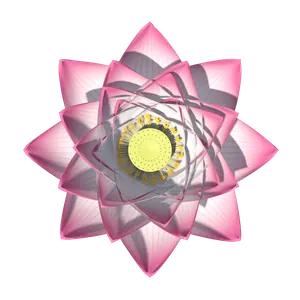
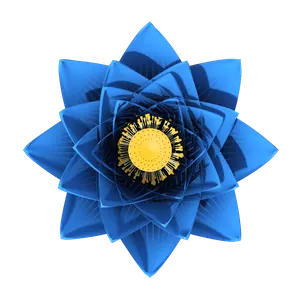
Lotus vira o microfone: flor preta, azul e dourada que fala
- Botão flutuante do canto inferior direito: o ícone de microfone foi
  trocado por uma flor de lótus 3D (preto por dentro, azul em volta,
  dourado no meio) que respira e brilha azul no mãos livres.
- Cabeçalho: sai a florzinha; ficam logo, lupa e três pontinhos
  (o carrinho continua aparecendo só quando há itens).
- Caixa da Lotus: removidos os dois círculos de voz; a própria flor
  balança, pulsa e sobe no ritmo da voz (volume de quem fala ao ouvir,
  "sílabas" quando a Lotus responde).
- Cor padrão da flor da Lotus também passa a ser preto, azul e dourado.

Claude-Session: https://claude.ai/code/session_01XJ8bKKccaeKyaJvzJKSeeL

diff --git a/src/components/LotusFlower.js b/src/components/LotusFlower.js
@@ -1,6 +1,6 @@
 import React, { useEffect, useMemo, useRef, useState } from 'react';
 import { View, Image, StyleSheet, Animated, Easing, Pressable } from 'react-native';
-import FRAMES, { MINI } from './lotus/frames';
+import FRAMES, { FAB } from './lotus/frames';
 
 // Flor de lótus da Lotus em 3D (quadros em assets/lotus, gerados por tools/lotus3d).
 
@@ -8,7 +8,8 @@ const SIZE = 206; // a flor é vista de frente (de cima), formando um círculo n
 
 // Cores da flor conforme o assunto da conversa.
 export const MOODS = {
-  padrao: { back: '#E0709F', mid: '#F29BBE', front: '#FFC9DC', center: '#FFF0F5', shineBack: 'rgba(255,190,215,0.6)', shineMid: 'rgba(255,225,238,0.75)', glow: 'rgba(253,224,150,0.22)', seed: '#FDE7A8', icon: '#A8790A' },
+  // Padrão do Realys: preto por dentro, azul em volta e dourado no meio.
+  padrao: { back: '#0E1A3A', mid: '#2F86FF', front: '#7DB8FF', center: '#E2B649', shineBack: 'rgba(47,134,255,0.5)', shineMid: 'rgba(125,184,255,0.7)', glow: 'rgba(226,182,73,0.22)', seed: '#E2B649', icon: '#E2B649' },
   agro: { back: '#2E9E62', mid: '#4CBF7E', front: '#A7E8BF', center: '#E6F9EE', shineBack: 'rgba(190,240,205,0.55)', shineMid: 'rgba(225,250,232,0.7)', glow: 'rgba(110,231,160,0.24)', seed: '#FDE7A8', icon: '#1E7A48' },
   sos: { back: '#C62828', mid: '#E53935', front: '#FF8A80', center: '#FFE1DE', shineBack: 'rgba(255,170,160,0.5)', shineMid: 'rgba(255,215,210,0.7)', glow: 'rgba(248,113,113,0.30)', seed: '#FFF1C1', icon: '#C62828' },
   shop: { back: '#B8860B', mid: '#D4A017', front: '#F5D272', center: '#FFF5D6', shineBack: 'rgba(255,230,160,0.55)', shineMid: 'rgba(255,245,210,0.75)', glow: 'rgba(253,210,100,0.30)', seed: '#FFFFFF', icon: '#A8790A' },
@@ -52,8 +53,8 @@ function Pollen({ x, delay, active }) {
 
 // Flor de lótus 3D realista (quadros renderizados em 3D, com luz, sombra e translucidez).
 // - Ao abrir a caixa, desabrocha a partir do botão fechado.
-// - Ativa (ouvindo, pensando, falando): fica aberta e "respira" devagar; falando, respira mais
-//   rápido, o brilho acompanha a voz e sobe pólen dourado.
+// - Ativa (ouvindo, pensando, falando): fica aberta e "respira"; no lugar dos antigos círculos de
+//   voz, a própria flor balança e pulsa com a voz (de quem fala ou da Lotus) e sobe pólen dourado.
 // - Em repouso: fecha de novo até ficar entreaberta.
 const LAST = 7; // último quadro do desabrochar
 const REST = 3; // quadro de repouso (entreaberta)
@@ -96,34 +97,72 @@ export default function LotusFlower({ phase, level, onPress, visible = true, moo
     return () => clearInterval(id);
   }, [visible]);
 
-  const listening = phase === 'listening';
   const speaking = phase === 'speaking';
-  const glowColor = listening ? 'rgba(96,165,250,0.32)' : (MOODS[mood] || MOODS.padrao).glow;
+  // A flor "fala": em vez dos círculos de voz, a própria flor balança no ritmo da voz.
+  // Ouvindo, acompanha o volume de quem fala (level); falando, cada sílaba da Lotus dá um tremor.
   const breath = useRef(new Animated.Value(0)).current;
+  const talk = useRef(new Animated.Value(0)).current; // força da "sílaba" da Lotus (0 a 1)
+  const tilt = useRef(new Animated.Value(0)).current; // lado do balanço (-1 a 1)
   useEffect(() => {
     const b = Animated.loop(
       Animated.sequence([
-        Animated.timing(breath, { toValue: 1, duration: active ? 700 : 2000, easing: Easing.inOut(Easing.sin), useNativeDriver: true }),
-        Animated.timing(breath, { toValue: 0, duration: active ? 700 : 2000, easing: Easing.inOut(Easing.sin), useNativeDriver: true }),
+        Animated.timing(breath, { toValue: 1, duration: active ? 900 : 2000, easing: Easing.inOut(Easing.sin), useNativeDriver: true }),
+        Animated.timing(breath, { toValue: 0, duration: active ? 900 : 2000, easing: Easing.inOut(Easing.sin), useNativeDriver: true }),
       ]),
     );
     b.start();
     return () => b.stop();
   }, [active]);
-  const glowScale = Animated.add(
-    breath.interpolate({ inputRange: [0, 1], outputRange: [0.9, 1.06] }),
-    level.interpolate({ inputRange: [0, 1], outputRange: [0, 0.3] }),
+  useEffect(() => {
+    if (!visible || !active) {
+      Animated.parallel([
+        Animated.timing(talk, { toValue: 0, duration: 200, useNativeDriver: true }),
+        Animated.timing(tilt, { toValue: 0, duration: 300, useNativeDriver: true }),
+      ]).start();
+      return;
+    }
+    if (!speaking) Animated.timing(talk, { toValue: 0, duration: 200, useNativeDriver: true }).start();
+    let alive = true;
+    let id;
+    const beat = () => {
+      if (!alive) return;
+      const dur = speaking ? 90 + Math.random() * 90 : 260 + Math.random() * 200;
+      const anims = [Animated.timing(tilt, { toValue: Math.random() * 2 - 1, duration: dur, easing: Easing.inOut(Easing.quad), useNativeDriver: true })];
+      if (speaking) {
+        // sílaba: sobe rápido e solta; de vez em quando uma pausa curta, como entre palavras
+        const amp = Math.random() < 0.15 ? 0.05 : 0.35 + Math.random() * 0.65;
+        anims.push(
+          Animated.sequence([
+            Animated.timing(talk, { toValue: amp, duration: dur * 0.4, easing: Easing.out(Easing.quad), useNativeDriver: true }),
+            Animated.timing(talk, { toValue: amp * 0.25, duration: dur * 0.6, easing: Easing.in(Easing.quad), useNativeDriver: true }),
+          ]),
+        );
+      }
+      Animated.parallel(anims).start();
+      id = setTimeout(beat, dur);
+    };
+    beat();
+    return () => {
+      alive = false;
+      clearTimeout(id);
+    };
+  }, [visible, active, speaking]);
+  const voice = Animated.add(level, talk); // 0 (quieta) a ~1 (voz forte)
+  const flowerScale = Animated.add(
+    breath.interpolate({ inputRange: [0, 1], outputRange: [1, active ? 1.025 : 1.012] }),
+    voice.interpolate({ inputRange: [0, 2], outputRange: [0, 0.2], extrapolate: 'clamp' }),
   );
-  const flowerScale = level.interpolate({ inputRange: [0, 1], outputRange: [1, 1.05] });
+  // Balanço: um pouquinho sempre que está ativa e bem mais forte com a voz.
+  const sway = Animated.multiply(tilt, voice.interpolate({ inputRange: [0, 1], outputRange: [0.15, 1], extrapolate: 'clamp' }));
+  const rotate = sway.interpolate({ inputRange: [-1, 1], outputRange: ['-7deg', '7deg'], extrapolate: 'clamp' });
+  const lift = voice.interpolate({ inputRange: [0, 1], outputRange: [0, -5], extrapolate: 'clamp' });
   const pollen = useMemo(() => [-22, -10, 0, 9, 20, -15, 14].map((x, i) => ({ x, delay: i * 230 })), []);
 
   // Todos os quadros ficam empilhados e só o atual aparece: troca sem piscar.
   const all = [...set.bloom.map((src, i) => ['bloom', i, src]), ...set.idle.map((src, i) => ['idle', i, src])];
   return (
     <Pressable onPress={onPress} accessibilityLabel="Falar com a Lotus" style={styles.wrap}>
-      <Animated.View pointerEvents="none" style={[styles.glow, { backgroundColor: glowColor, transform: [{ scale: glowScale }] }]} />
-      <Animated.View pointerEvents="none" style={[styles.glowSoft, { transform: [{ scale: glowScale }] }]} />
-      <Animated.View style={[styles.flower, { transform: [{ scale: flowerScale }] }]}>
+      <Animated.View style={[styles.flower, { transform: [{ translateY: lift }, { rotate }, { scale: flowerScale }] }]}>
         {all.map(([k, i, src]) => (
           <Image
             key={mood + k + i}
@@ -187,33 +226,40 @@ export function FlyingPetal({ trigger, from, to, color = '#F29BBE' }) {
   );
 }
 
-// Florzinha de lótus 3D do cabeçalho: botão fechado em repouso, cresce com brilho azul
-// quando o mãos livres está ouvindo e desabrocha quando a Lotus abre.
-export function MiniLotus({ hearing, open }) {
-  const o = useRef(new Animated.Value(open ? 1 : 0)).current;
+// Botão flutuante da Lotus (canto inferior direito): uma flor de lótus preta, azul e dourada
+// que funciona como microfone. Respira devagar em repouso e brilha azul quando o mãos livres
+// está ouvindo o "abrir Lotus". Tocar abre o comando de voz.
+export function LotusMic({ hearing, open }) {
+  const b = useRef(new Animated.Value(0)).current;
   const g = useRef(new Animated.Value(0)).current;
   useEffect(() => {
-    Animated.spring(o, { toValue: open ? 1 : 0, friction: 7, tension: 60, useNativeDriver: true }).start();
-  }, [open]);
+    const loop = Animated.loop(
+      Animated.sequence([
+        Animated.timing(b, { toValue: 1, duration: 1800, easing: Easing.inOut(Easing.sin), useNativeDriver: true }),
+        Animated.timing(b, { toValue: 0, duration: 1800, easing: Easing.inOut(Easing.sin), useNativeDriver: true }),
+      ]),
+    );
+    loop.start();
+    return () => loop.stop();
+  }, []);
   useEffect(() => {
     Animated.timing(g, { toValue: hearing || open ? 1 : 0, duration: 220, useNativeDriver: true }).start();
   }, [hearing, open]);
-  const budScale = Animated.add(o.interpolate({ inputRange: [0, 1], outputRange: [1, 0.7] }), g.interpolate({ inputRange: [0, 1], outputRange: [0, 0.1] }));
+  const scale = Animated.add(b.interpolate({ inputRange: [0, 1], outputRange: [1, 1.06] }), g.interpolate({ inputRange: [0, 1], outputRange: [0, 0.06] }));
   return (
-    <View style={{ width: 34, height: 32, alignItems: 'center', justifyContent: 'center' }} pointerEvents="none">
-      <Animated.View style={[styles.miniGlow, { opacity: g }, open && { backgroundColor: 'rgba(253,224,150,0.45)' }]} />
-      <Animated.Image source={MINI[0]} fadeDuration={0} resizeMode="contain" style={[styles.mini, { opacity: o.interpolate({ inputRange: [0, 1], outputRange: [1, 0] }), transform: [{ scale: budScale }] }]} />
-      <Animated.Image source={MINI[1]} fadeDuration={0} resizeMode="contain" style={[styles.mini, { opacity: o, transform: [{ scale: o.interpolate({ inputRange: [0, 1], outputRange: [0.5, 1.12] }) }] }]} />
+    <View style={styles.micWrap} pointerEvents="none">
+      <Animated.View style={[styles.micGlow, { opacity: g }]} />
+      <Animated.Image source={FAB[0]} fadeDuration={0} resizeMode="contain" style={[styles.micFlower, { opacity: g.interpolate({ inputRange: [0, 1], outputRange: [1, 0] }), transform: [{ scale }] }]} />
+      <Animated.Image source={FAB[1]} fadeDuration={0} resizeMode="contain" style={[styles.micFlower, { opacity: g, transform: [{ scale }] }]} />
     </View>
   );
 }
 
 const styles = StyleSheet.create({
-  miniGlow: { position: 'absolute', width: 28, height: 28, borderRadius: 14, backgroundColor: 'rgba(96,165,250,0.28)' },
-  mini: { position: 'absolute', width: 32, height: 30 },
+  micWrap: { width: 52, height: 52, alignItems: 'center', justifyContent: 'center' },
+  micGlow: { position: 'absolute', width: 52, height: 52, borderRadius: 26, backgroundColor: 'rgba(47,134,255,0.35)' },
+  micFlower: { position: 'absolute', width: 50, height: 50 },
   wrap: { alignSelf: 'center', width: SIZE, height: SIZE, marginTop: 2, alignItems: 'center', justifyContent: 'center' },
   flower: { position: 'absolute', left: 0, top: 0, width: SIZE, height: SIZE },
-  glow: { position: 'absolute', width: 120, height: 120, borderRadius: 60, left: SIZE / 2 - 60, top: SIZE / 2 - 60 },
-  glowSoft: { position: 'absolute', width: 190, height: 190, borderRadius: 95, left: SIZE / 2 - 95, top: SIZE / 2 - 95, backgroundColor: 'rgba(255,240,210,0.07)' },
   pollen: { position: 'absolute', top: SIZE / 2 - 2, width: 4, height: 4, borderRadius: 2, backgroundColor: '#FDE68A' },
 });

diff --git a/tools/lotus3d/lotus.html b/tools/lotus3d/lotus.html
@@ -132,7 +132,7 @@ const FS = `#version 300 es
 precision highp float;
 in vec3 P; in vec3 N; in vec2 UV; in vec2 ME; in vec4 LP;
 uniform vec3 eye; uniform vec3 Lk; uniform vec3 Lb;
-uniform vec3 cBody; uniform vec3 cTip; uniform vec3 cBase;
+uniform vec3 cBody; uniform vec3 cTip; uniform vec3 cBase; uniform int goldPod;
 uniform sampler2D sh; uniform int depthOnly;
 out vec4 o;
 vec3 lin(vec3 c){return pow(c,vec3(2.2));}
@@ -150,17 +150,17 @@ void main(){
   if(mat<0.5){ // pétala
     float t=smoothstep(0.42,1.0,u)+0.35*abs(v)*smoothstep(0.4,1.,u);
     alb=mix(lin(cBody),lin(cTip),clamp(t,0.,1.));
-    alb=mix(lin(cBase),alb,smoothstep(0.0,0.22,u));
+    alb=mix(lin(cBase),alb,goldPod==1?smoothstep(0.15,0.75,u):smoothstep(0.0,0.22,u));
     float vein=pow(abs(sin(v*3.14159*8.5+sin(u*6.)*0.3)),30.)*smoothstep(0.1,0.6,u);
     alb=mix(alb,lin(cTip)*0.85,vein*0.35);
     alb*=0.94+0.06*h(floor(UV*vec2(160.,60.)));
     trans=0.65; ao=mix(0.35,1.,smoothstep(0.0,0.45,u))*mix(0.75,1.,ME.y);
-  } else if(mat<1.5){ alb=lin(vec3(0.62,0.70,0.30)); ao=mix(0.4,1.,UV.x); rough=0.7; }
+  } else if(mat<1.5){ alb=goldPod==1?lin(vec3(0.80,0.52,0.08)):lin(vec3(0.62,0.70,0.30)); ao=mix(0.4,1.,UV.x); rough=0.7; }
   else if(mat<2.5){ // topo da cápsula com furinhos
     vec2 q=vec2(atan(P.z,P.x)*3.,length(P.xz)*55.);
     float holes=smoothstep(0.18,0.1,length(fract(vec2(q.x*1.3,q.y*0.6))-0.5));
     holes*=step(0.05,length(P.xz));
-    alb=mix(lin(vec3(0.74,0.76,0.34)),lin(vec3(0.36,0.40,0.14)),holes*0.85);
+    alb=goldPod==1?mix(lin(vec3(0.92,0.62,0.10)),lin(vec3(0.30,0.18,0.02)),holes*0.85):mix(lin(vec3(0.74,0.76,0.34)),lin(vec3(0.36,0.40,0.14)),holes*0.85); if(goldPod==1) rough=0.25;
   } else if(mat<3.5){ alb=lin(u>0.78?vec3(0.98,0.72,0.18):vec3(0.97,0.90,0.62)); trans=0.3; ao=mix(0.5,1.,u); }
   else { // folha d'água
     float ang=atan(P.z,P.x); float r=length(P.xz);
@@ -216,7 +216,7 @@ gl.bindBuffer(gl.ARRAY_BUFFER, vbo); gl.bindBuffer(gl.ELEMENT_ARRAY_BUFFER, ibo)
 const U = (n) => gl.getUniformLocation(P, n);
 const hex = (h) => [parseInt(h.slice(1, 3), 16) / 255, parseInt(h.slice(3, 5), 16) / 255, parseInt(h.slice(5, 7), 16) / 255];
 
-window.render = function ({ b = 1, rot = 0, pad = true, body = '#FFF7F2', tip = '#E86A9A', base = '#F3EBC0', elev = 36, dist = 6.2, size = 1024, target = 0.36 }) {
+window.render = function ({ b = 1, rot = 0, pad = true, body = '#FFF7F2', tip = '#E86A9A', base = '#F3EBC0', gold = false, elev = 36, dist = 6.2, size = 1024, target = 0.36 }) {
   cv.width = cv.height = size;
   const m = buildFlower(b, rot, pad);
   gl.bindBuffer(gl.ARRAY_BUFFER, vbo); gl.bufferData(gl.ARRAY_BUFFER, new Float32Array(m.v), gl.STATIC_DRAW);
@@ -245,7 +245,7 @@ window.render = function ({ b = 1, rot = 0, pad = true, body = '#FFF7F2', tip = 
   gl.uniform1i(U('depthOnly'), 0); gl.uniformMatrix4fv(U('VP'), false, VP);
   gl.activeTexture(gl.TEXTURE0); gl.bindTexture(gl.TEXTURE_2D, dtex); gl.uniform1i(U('sh'), 0);
   gl.uniform3fv(U('eye'), topView ? eye : e); gl.uniform3fv(U('Lk'), Lk); gl.uniform3fv(U('Lb'), Lb);
-  gl.uniform3fv(U('cBody'), hex(body)); gl.uniform3fv(U('cTip'), hex(tip)); gl.uniform3fv(U('cBase'), hex(base));
+  gl.uniform3fv(U('cBody'), hex(body)); gl.uniform3fv(U('cTip'), hex(tip)); gl.uniform3fv(U('cBase'), hex(base)); gl.uniform1i(U('goldPod'), gold ? 1 : 0);
   gl.drawElements(gl.TRIANGLES, m.i.length, gl.UNSIGNED_INT, 0);
   gl.bindTexture(gl.TEXTURE_2D, null);
   return cv.toDataURL('image/png');

diff --git a/App.js b/App.js
@@ -10,7 +10,7 @@ import { colors, brl, ROLE_LABELS, soft } from './src/theme';
 import LoginScreen from './src/screens/LoginScreen';
 import ProfileScreen from './src/screens/ProfileScreen';
 import VoiceAssistant from './src/screens/VoiceAssistant';
-import { MiniLotus } from './src/components/LotusFlower';
+import { LotusMic } from './src/components/LotusFlower';
 import FeedScreen from './src/screens/cliente/FeedScreen';
 import HomeScreen from './src/screens/cliente/home/HomeScreen';
 import StoriesScreen from './src/screens/StoriesScreen';
@@ -262,11 +262,6 @@ function Shell() {
           <Ionicons name="checkmark-circle" size={14} color={colors.gold} style={{ marginLeft: 5 }} />
         </View>
         <View style={{ flexDirection: 'row', alignItems: 'center' }}>
-          {/* Florzinha da Lotus: fechada em repouso, entreabre quando o mãos livres
-              está ouvindo e desabrocha quando a Lotus abre ("abrir Lotus" ou toque). */}
-          <TouchableOpacity onPress={() => setVoice(true)} style={styles.iconBtn} accessibilityLabel="Abrir a Lotus">
-            <MiniLotus hearing={state.handsFree && hearing} open={voice} />
-          </TouchableOpacity>
           {/* Carrinho discreto: só aparece quando há itens */}
           <CartIcon style={styles.iconBtn} />
           <TouchableOpacity onPress={() => setSearching(true)} style={styles.iconBtn} accessibilityLabel="Buscar pessoas na rede Realys">
@@ -302,7 +297,8 @@ function Shell() {
         activeOpacity={0.85}
         accessibilityLabel="Falar com a Lotus"
       >
-        <Ionicons name="mic" size={24} color={colors.primary} />
+        {/* A Lotus é o microfone: flor preta, azul e dourada no lugar do antigo ícone de mic. */}
+        <LotusMic hearing={state.handsFree && hearing} open={voice} />
       </TouchableOpacity>
 
       {isAdmin ? (
@@ -516,13 +512,14 @@ const styles = StyleSheet.create({
     width: 56,
     height: 56,
     borderRadius: 28,
-    backgroundColor: colors.card,
+    backgroundColor: '#05070D',
     borderWidth: 1.5,
     borderColor: colors.gold,
     alignItems: 'center',
     justifyContent: 'center',
+    overflow: 'hidden',
     elevation: 6,
-    shadowColor: colors.primary,
+    shadowColor: '#2F86FF',
     shadowOpacity: 0.25,
     shadowRadius: 12,
     shadowOffset: { width: 0, height: 4 },

diff --git a/src/components/lotus/frames.js b/src/components/lotus/frames.js
@@ -82,4 +82,4 @@ const F = {
   },
 };
 export default F;
-export const MINI = [require('../../../assets/lotus/mini_0.webp'), require('../../../assets/lotus/mini_1.webp')];
+export const FAB = [require('../../../assets/lotus/fab_0.webp'), require('../../../assets/lotus/fab_1.webp')];

diff --git a/tools/lotus3d/gen.py b/tools/lotus3d/gen.py
@@ -1,14 +1,14 @@
 import json, math, subprocess, os
-moods={'padrao':('#FFF7F2','#E0608E','#F3EBC0'),'agro':('#F6FFF4','#3FA862','#E9F0B8'),'sos':('#FFF2F0','#D3262B','#F6E3B4'),'shop':('#FFFBEF','#D9A21B','#F8EDB0')}
+moods={'padrao':('#0E1A3A','#2F86FF','#030305'),'agro':('#F6FFF4','#3FA862','#E9F0B8'),'sos':('#FFF2F0','#D3262B','#F6E3B4'),'shop':('#FFFBEF','#D9A21B','#F8EDB0')}
 jobs=[]
 os.makedirs('raw',exist_ok=True)
 for m,(body,tip,base) in moods.items():
     for i in range(8):
         t=i/7; b=0.5-0.5*math.cos(math.pi*t)
-        jobs.append({'f':f'raw/{m}_bloom_{i:02d}.png','o':{'b':b,'pad':False,'elev':90,'dist':5.2,'target':0.2,'body':body,'tip':tip,'base':base}})
+        jobs.append({'f':f'raw/{m}_bloom_{i:02d}.png','o':{'b':b,'pad':False,'elev':90,'dist':5.2,'target':0.2,'body':body,'tip':tip,'base':base,'gold':m=='padrao'}})
     for i in range(6):
         a=2*math.pi*i/6
-        jobs.append({'f':f'raw/{m}_idle_{i:02d}.png','o':{'b':1-0.035*(1-math.cos(a)),'pad':False,'elev':90,'dist':5.2,'target':0.2,'rot':2.5*math.sin(a),'body':body,'tip':tip,'base':base}})
-for i,b in enumerate([0.3,1.0]):
-    jobs.append({'f':f'raw/mini_{i}.png','o':{'b':b,'pad':False,'elev':24,'dist':4.6}})
+        jobs.append({'f':f'raw/{m}_idle_{i:02d}.png','o':{'b':1-0.035*(1-math.cos(a)),'pad':False,'elev':90,'dist':5.2,'target':0.2,'rot':2.5*math.sin(a),'body':body,'tip':tip,'base':base,'gold':m=='padrao'}})
+for i,b in enumerate([0.55,1.0]):
+    jobs.append({'f':f'raw/fab_{i}.png','o':{'b':b,'pad':False,'elev':90,'dist':5.2,'target':0.2,'body':'#163A8C','tip':'#4FA3FF','base':'#07080D','gold':True}})
 open('jobs.json','w').write(json.dumps(jobs))

diff --git a/tools/lotus3d/render.py b/tools/lotus3d/render.py
@@ -12,8 +12,6 @@ with sync_playwright() as p:
     for j in jobs:
         im = Image.open(io.BytesIO(base64.b64decode(pg.evaluate('o=>render(o)', j['o']).split(',')[1]))).convert('RGBA')
         name = os.path.basename(j['f']).replace('.png', '.webp')
-        if name.startswith('mini'):
-            continue  # florzinha do cabeçalho fica como está
         # recorte quadrado fixo e centrado: a flor fica sempre no meio
         im = im.crop((64, 64, 960, 960)).resize((300, 300), Image.LANCZOS)
         im.save(os.path.join(OUT, name), 'WEBP', quality=78, method=6)
@@ -30,5 +28,5 @@ for m in ['padrao', 'agro', 'sos', 'shop']:
         js += [f"      require('../../../assets/lotus/{n}')," for n in names if n.startswith(f'{m}_{k}_')]
         js.append('    ],')
     js.append('  },')
-js += ['};', 'export default F;', "export const MINI = [require('../../../assets/lotus/mini_0.webp'), require('../../../assets/lotus/mini_1.webp')];", '']
+js += ['};', 'export default F;', "export const FAB = [require('../../../assets/lotus/fab_0.webp'), require('../../../assets/lotus/fab_1.webp')];", '']
 open(os.path.join(HERE, '..', '..', 'src', 'components', 'lotus', 'frames.js'), 'w').write('\n'.join(js))
